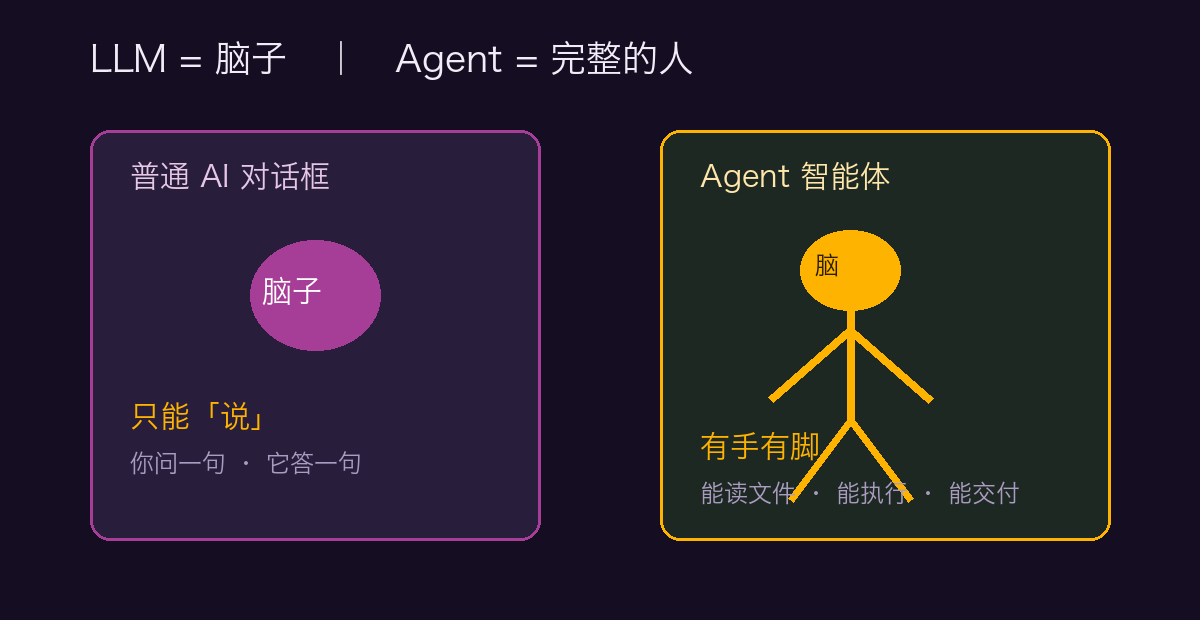
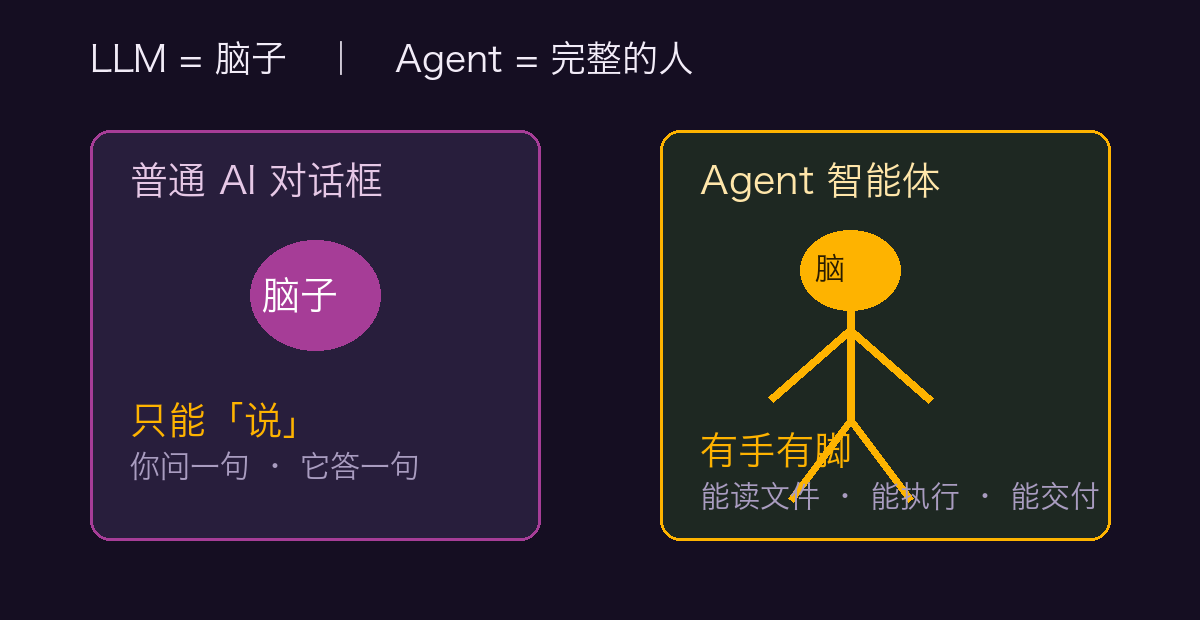
feat: 实操课配真实录屏GIF——wb-02历史任务对话/wb-04换大脑流程(带字幕条); 修复线上未部署遗漏

diff --git a/scripts/build_teaching_visuals.py b/scripts/build_teaching_visuals.py
@@ -21,10 +21,10 @@ def font(size=28, mono=False):
     return ImageFont.load_default()
 
 
-F = font(28)
-FS = font(23)
-FT = font(38)
-FM = font(22, mono=True)
+F = font(35)
+FS = font(29)
+FT = font(46)
+FM = font(27)
 GOLD = (254, 179, 0)
 PURPLE = (166, 61, 151)
 TXT = (242, 236, 248)
@@ -41,43 +41,43 @@ def save(im, name):
 
 # ① 模型能力 × 价格矩阵
 def models_matrix():
-    im = Image.new('RGB', (1240, 860), BG)
+    im = Image.new('RGB', (1480, 1160), BG)
     d = ImageDraw.Draw(im)
-    d.text((70, 36), 'WorkBuddy 货架上的「脑子」速查（倍率 ≈ 价格档，以实际为准）', font=font(32), fill=TXT)
+    d.text((70, 36), 'WorkBuddy 货架速查（倍率 ≈ 价格档，以实际为准）', font=font(40), fill=TXT)
 
     cols = ['模型', '价格档', '最擅长', '适合谁']
     rows = [
-        ('Hy4 / Hy3', '限时免费', '日常问答 · 尝鲜', '所有人，先白嫖'),
+        ('Hy4 / Hy3', '限时免费', '日常问答 · 尝鲜', '所有人'),
         ('GLM-5.3-Flash', '0.06x 超低价', '快问快答 · 批量小任务', '高频使用者'),
         ('Deepseek-V4-Flash', '0.17x 夜间折扣', '长文档阅读 · 总结', '读材料、写综述'),
         ('MiniMax-M3', '0.25x', '通用任务 · 性价比', '日常办公'),
         ('Kimi-K2.6 / K2.7', '0.5x 左右', '写作 · 文件处理', '文字工作者'),
         ('GLM-5.2 / 5.3', '0.79x 订阅优先', '综合能力强', '主力脑子'),
-        ('Kimi-K3', '1.62x', '写代码 · 看图 · 设计感', '做网站做课件'),
+        ('Kimi-K3', '1.62x', '写代码 · 看图', '做网站做课件'),
         ('Deepseek-V4-Pro', '0.51x 夜间折扣', '深度推理 · 复杂分析', '难题攻坚'),
         ('GLM-5v-Turbo', '0.71x（V=视觉）', '看图看表 · 图像理解', '有图的任务'),
     ]
-    x0, y0 = 70, 110
-    colw = [300, 230, 330, 300]
-    rowh = 70
+    x0, y0 = 70, 130
+    colw = [400, 290, 380, 300]
+    rowh = 84
     # 表头
     cx = x0
     for i, c in enumerate(cols):
-        d.rounded_rectangle((cx, y0, cx + colw[i] - 8, y0 + 52), 8, fill=(60, 45, 90))
-        d.text((cx + 16, y0 + 10), c, font=FS, fill=GOLD)
+        d.rounded_rectangle((cx, y0, cx + colw[i] - 10, y0 + 60), 8, fill=(60, 45, 90))
+        d.text((cx + 18, y0 + 12), c, font=font(30), fill=GOLD)
         cx += colw[i]
     # 行
     for r, row in enumerate(rows):
-        y = y0 + 64 + r * rowh
+        y = y0 + 76 + r * rowh
         if r % 2 == 0:
-            d.rounded_rectangle((x0, y - 6, x0 + sum(colw) - 8, y + rowh - 14), 8, fill=(34, 24, 54))
+            d.rounded_rectangle((x0, y - 6, x0 + sum(colw) - 10, y + rowh - 14), 8, fill=(34, 24, 54))
         cx = x0
         for i, cell in enumerate(row):
             color = TXT if i == 0 else (GOLD if i == 1 else (GREEN if i == 2 else MUT))
-            d.text((cx + 16, y + 14), cell, font=font(24 if i else 26), fill=color)
+            d.text((cx + 16, y + 14), cell, font=font(29 if i else 33), fill=color)
             cx += colw[i]
-    d.text((70, 760), '倍率 = 干活时的积分计费系数：0.2x 打 2 折，1.6x 是 1.6 倍价。', font=FS, fill=MUT)
-    d.text((70, 800), '选脑口诀：先免费 → 不行上中档 → 难题再上贵脑。看图任务认准「V」。', font=FS, fill=GOLD)
+    d.text((70, 1060), '倍率 = 干活时的积分计费系数：0.2x 打 2 折，1.6x 是 1.6 倍价。', font=font(29), fill=MUT)
+    d.text((70, 1105), '选脑口诀：先免费 → 不行上中档 → 难题再上贵脑。看图任务认准「V」。', font=font(29), fill=GOLD)
     save(im, 'models-matrix.png')
 
 
@@ -90,7 +90,7 @@ def anatomy():
     H = max(760, shot.height + 120)
     im = Image.new('RGB', (W, H), BG)
     d = ImageDraw.Draw(im)
-    d.text((70, 36), '解剖一个网页：左边是「代码」，右边是「你看到的页面」', font=font(30), fill=TXT)
+    d.text((70, 36), '解剖一个网页：左边是「代码」，右边是「你看到的页面」', font=font(37), fill=TXT)
 
     # 左：源码面板
     code_lines = [
@@ -108,24 +108,24 @@ def anatomy():
     ]
     d.rounded_rectangle((70, 100, 590, 100 + 34 * len(code_lines) + 40), 14, fill=(18, 12, 30),
                         outline=(166, 61, 151), width=2)
-    d.text((90, 112), 'index.html（AI 写的代码）', font=font(22), fill=MUT)
+    d.text((90, 112), 'index.html（AI 写的代码）', font=font(27), fill=MUT)
     for i, (line, note, color) in enumerate(code_lines):
         y = 152 + i * 34
         if line:
             mono_ok = all(ord(ch) < 128 for ch in line)
-            d.text((92, y), line, font=font(20, mono=mono_ok), fill=(220, 230, 240))
+            d.text((92, y), line, font=font(25, mono=mono_ok), fill=(220, 230, 240))
         if note:
-            d.text((330, y), '← ' + note, font=font(19), fill=color)
+            d.text((330, y), '← ' + note, font=font(24), fill=color)
     # 右：页面截图
     sx = 640
     sy = 100
     im.paste(shot, (sx, sy))
     d.rectangle((sx, sy, sx + 560, sy + shot.height), outline=(120, 100, 150), width=2)
-    d.text((sx, 76), '浏览器打开 index.html = 你看到的页面', font=font(22), fill=MUT)
+    d.text((sx, 76), '浏览器打开 index.html = 你看到的页面', font=font(27), fill=MUT)
     # 底部结论
     d.rounded_rectangle((70, H - 90, W - 70, H - 30), 12, fill=(40, 30, 60), outline=GOLD, width=2)
     d.text((95, H - 74), 'HTML = 骨架（内容是什么）　CSS = 皮肤（长什么样）　JS = 动作（能做什么）', font=F, fill=(254, 216, 120))
-    d.text((95, H - 118), '你不需要会写它们——你只需要看得懂「哪段管哪块」，然后让 AI 去改。', font=font(22), fill=MUT)
+    d.text((95, H - 118), '你不需要会写它们——你只需要看得懂「哪段管哪块」，然后让 AI 去改。', font=font(27), fill=MUT)
     save(im, 'anatomy.png')
 
 

diff --git a/scripts/build_m0_visuals.py b/scripts/build_m0_visuals.py
@@ -20,9 +20,9 @@ def font(size=30):
     return ImageFont.load_default()
 
 
-F = font(30)
-FS = font(24)
-FT = font(40)
+F = font(38)
+FS = font(30)
+FT = font(48)
 GOLD = (254, 179, 0)
 PURPLE = (166, 61, 151)
 TXT = (242, 236, 248)
@@ -56,7 +56,7 @@ def five_stages_frames():
     total_steps = 5
     for step in range(1, total_steps + 1):
         im, d = new(W, H)
-        d.text((90, 40), 'AI 使用的五个阶段：大多数老师滑向第 5 步', font=font(34), fill=TXT)
+        d.text((90, 40), 'AI 使用的五个阶段：大多数老师滑向第 5 步', font=font(42), fill=TXT)
         # 坐标轴
         d.line((80, 520, 1120, 520), fill=(120, 100, 150), width=3)
         d.line((80, 520, 80, 110), fill=(120, 100, 150), width=3)
@@ -77,7 +77,7 @@ def five_stages_frames():
             lx, ly, c = labels[seg]
             anchor_x = pts_x[seg] - 10
             d.text((anchor_x, pts_y[seg] - 66), lx, font=FS, fill=c)
-            d.text((anchor_x, pts_y[seg] - 34), labels[seg][1], font=font(21), fill=MUT)
+            d.text((anchor_x, pts_y[seg] - 34), labels[seg][1], font=font(27), fill=MUT)
             d.ellipse((pts_x[seg] - 9, pts_y[seg] - 9, pts_x[seg] + 9, pts_y[seg] + 9), fill=c)
         # 当前阶段提示
         cur = labels[step - 1]
@@ -97,13 +97,13 @@ def why_hard_compare():
     d.rounded_rectangle((80, 120, 560, 300), 16, fill=(46, 26, 46), outline=(200, 90, 90), width=3)
     d.text((105, 145), '× 普通问法', font=F, fill=(230, 130, 130))
     d.text((105, 200), '帮我写个通知', font=FS, fill=(220, 200, 210))
-    d.text((105, 250), '→ AI 只能瞎猜，产出一堆套话', font=font(21), fill=(180, 150, 160))
+    d.text((105, 250), '→ AI 只能瞎猜，产出一堆套话', font=font(27), fill=(180, 150, 160))
     # 右：好问
     d.rounded_rectangle((640, 120, 1120, 300), 16, fill=(26, 40, 34), outline=(90, 180, 120), width=3)
     d.text((665, 145), '√ 三句话问法', font=F, fill=(130, 220, 160))
     for i, line in enumerate(['【身份】你是经验丰富的班主任', '【任务】写一份秋游告家长书', '【要求】500 字内，亲切，含回执截止日']):
-        d.text((665, 186 + i * 32), line, font=font(21), fill=(200, 230, 210))
-    d.text((665, 288), '→ 一次到位，只微调', font=font(21), fill=(150, 190, 165))
+        d.text((665, 186 + i * 32), line, font=font(27), fill=(200, 230, 210))
+    d.text((665, 288), '→ 一次到位，只微调', font=font(27), fill=(150, 190, 165))
     # 底部结论条
     d.rounded_rectangle((80, 360, 1120, 470), 16, fill=(40, 30, 60), outline=PURPLE, width=2)
     d.text((110, 385), '差别不在 AI，在表达：', font=F, fill=TXT)

diff --git a/src/content/lessons/software/wb-02-first-chat.md b/src/content/lessons/software/wb-02-first-chat.md
@@ -11,6 +11,10 @@ status: ready
 
 ## 热身：先随便聊两句（1 分钟）
 
+**跟着下面的动图一起点**（这就是你要做的全部动作）：
+
+![打开 WorkBuddy 历史任务](/images/demos/wb2-chat.gif)
+
 1. 打开 WorkBuddy，确认在「新建任务」页；
 2. 点一下中间大输入框（光标开始闪烁）；
 3. 打字：`帮我写一句家长会通知的开场白`；

diff --git a/src/content/lessons/software/wb-04-brain-credits.md b/src/content/lessons/software/wb-04-brain-credits.md
@@ -16,6 +16,10 @@ status: ready
 
 对着你的截图认一遍：
 
+**跟着动图看一遍完整动作**（点货架 → 选脑子 → 完成）：
+
+![换大脑完整流程](/images/demos/wb4-brain.gif)
+
 ![模型选择器实拍](/images/lessons/wb-05-models.webp)
 
 ## 第 2 步：看懂三样东西
